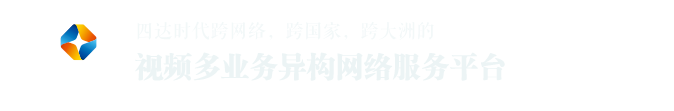
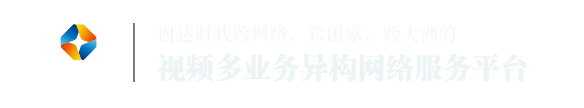
修改卫星样式

Changed region(s): [[0.0616, 0.1944, 0.1849, 0.5556], [0.2158, 0.2222, 0.2466, 0.75]]

diff --git a/startimes/monitor/js/world.js b/startimes/monitor/js/world.js
@@ -1,11 +1,11 @@
 var geoMap = {
   // 卫星
-  'E10A-卫星': [30, 59],
-  'E8WB-卫星': [60, 59],
-  'SES5-卫星': [90, 59],
+  'E10A-卫星': [30, 60],
+  'E8WB-卫星': [60, 60],
+  'SES5-卫星': [90, 60],
   // 北京总部
   '北京-总部': [116, 39.5],
-  '爱尔兰-亚马逊云': [-8, 55],
+  '爱尔兰-亚马逊云': [-6, 52],
   'Startimes-VPN': [80, -3],
   // 上星站
   '南非-上星站': [21, -30],
@@ -203,11 +203,25 @@ var coverLines = function(name, x, y, color) {
 
   if (x instanceof Array) {
     for(var i=0,len=x.length;i<len;i++){
-      line.data.push({name: y, coords: [geoMap[x[i]],geoMap[y]]})
+      var from = geoMap[x[i]], to = geoMap[y]
+      if (x[i].indexOf('卫星') >= 0) {
+        from = [from[0] - 2.5, from[1] - 2]
+      }
+      if (y.indexOf('卫星') >= 0) {
+        to = [to[0] - 2.5, to[1] - 2]
+      }
+      line.data.push({name: y, coords: [from, to]})
     }
   } else {
     for(var i=0,len=y.length;i<len;i++){
-      line.data.push({name: x, coords: [geoMap[x], geoMap[y[i]]]})
+      var from = geoMap[x], to = geoMap[y[i]]
+      if (x.indexOf('卫星') >= 0) {
+        from = [from[0] - 2.5, from[1] - 2]
+      }
+      if (y[i].indexOf('卫星') >= 0) {
+        to = [to[0] - 2.5, to[1] - 2]
+      }
+      line.data.push({name: x, coords: [from, to]})
     }
   }
   if (name == 'VPN') {
@@ -351,9 +365,9 @@ var options = {
         opacity: 1
       },
       data: [
-        { name: 'E10A-卫星', value: [geoMap['E10A-卫星'][0] + 2, geoMap['E10A-卫星'][1] + 3.9], symbol: wei.replace('wei', 'E10A'), symbolSize: [120, 103] },
-        { name: 'E8WB-卫星', value: [geoMap['E8WB-卫星'][0] + 2, geoMap['E8WB-卫星'][1] + 3.9], symbol: wei.replace('wei', 'E8WB'), symbolSize: [120, 103] },
-        { name: 'SES5-卫星', value: [geoMap['SES5-卫星'][0] + 2, geoMap['SES5-卫星'][1] + 3.5], symbol: wei.replace('wei', 'SES5'), symbolSize: [120, 103] }
+        { name: 'E10A-卫星', value: geoMap['E10A-卫星'], symbol: wei.replace('wei', 'E10A'), symbolSize: [120, 103] },
+        { name: 'E8WB-卫星', value: geoMap['E8WB-卫星'], symbol: wei.replace('wei', 'E8WB'), symbolSize: [120, 103] },
+        { name: 'SES5-卫星', value: geoMap['SES5-卫星'], symbol: wei.replace('wei', 'SES5'), symbolSize: [120, 103] }
       ]
     },
     {

diff --git a/startimes/monitor/css/world.css b/startimes/monitor/css/world.css
@@ -13,7 +13,7 @@ html, body {
 
 .main-title {
   position: absolute;
-  top: 0;
+  top: 20px;
   left: 0;
   height: 90px;
 }
@@ -24,16 +24,16 @@ html, body {
 .aws {
   position: absolute;
   box-sizing: border-box;
-  top: 12%;
-  left: 6%;
+  top: 18%;
+  left: 9%;
   width: 165px;
 }
 
 .startimes {
   position: absolute;
   box-sizing: border-box;
-  top: 16%;
-  right: 8%;
+  top: 17%;
+  right: 9%;
   width: 185px;
 }
 
@@ -46,8 +46,8 @@ html, body {
 
 .legend {
   position: absolute;
-  bottom: 10%;
-  right: 10%;
+  bottom: 8%;
+  right: 13%;
 }
 
 .aws-item, .startimes-item {
@@ -60,6 +60,10 @@ html, body {
   line-height: 1.6;
   color: #d4e1ea;
   margin-top: 5px;
+}
+
+.aws-item:nth-child(2n), .startimes-item:nth-child(2n) {
+  margin-left: -3px;
 }
 
 .startimes-item {

diff --git a/startimes/monitor/world.html b/startimes/monitor/world.html
@@ -81,7 +81,7 @@
 
     $(document).ready(function(){
       var ses5Position = myChart.convertToPixel('geo', [geoMap['SES5-卫星'][0], geoMap['SES5-卫星'][1]])
-      var top = ses5Position[1] -84, left = ses5Position[0] - 40
+      var top = ses5Position[1] -52, left = ses5Position[0] - 60
       $('#ses5Img').attr('style', 'display:none;position:absolute;left:'+ left + 'px;top:' + top + 'px')
       $('.total-item').each(function(){
         $(this).find('span').html(worldCount[$(this).attr('data-name')])
